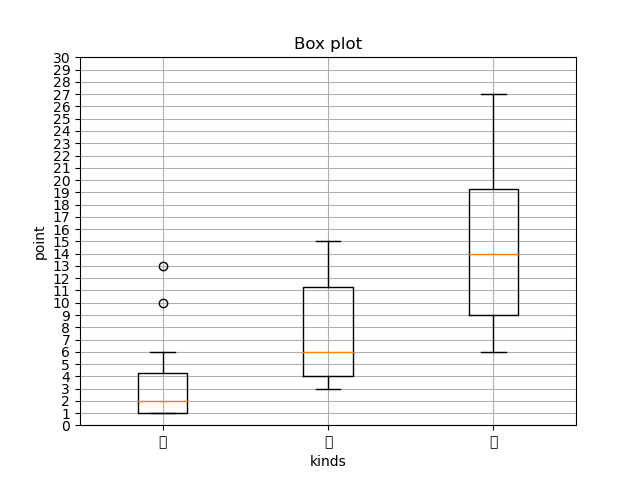
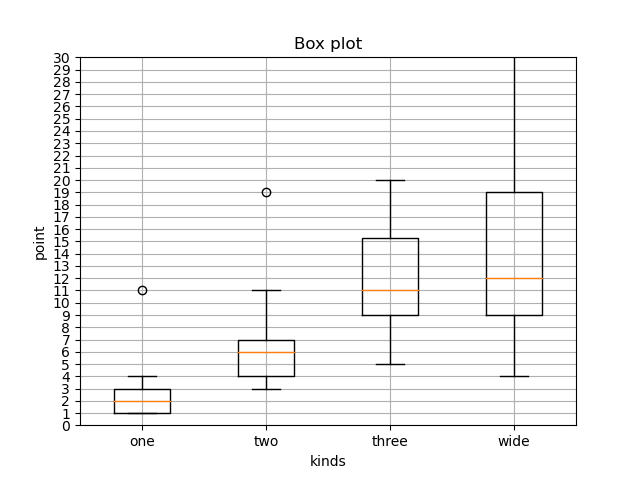
add demo wide

diff --git a/AkioAI/System_demo/class_demo.py b/AkioAI/System_demo/class_demo.py
@@ -208,6 +208,7 @@ class Race:
         self.popData1 = []
         self.popData2 = []
         self.popData3 = []
+        self.popData4 = []
         
         
     #トピックのurlを返す
@@ -312,21 +313,34 @@ class Race:
         popSum1 = 0
         popSum2 = 0
         popSum3 = 0
+        popSum4 = 0
+        popSum5 = 0
+        popSum6 = 0
+        
         data = pd.read_html(url,header=0)[0]
         for x,y in zip(data['着順'],data['人気']):
             
             try:
                 if(int(x) <= 1):
                     popSum1 = popSum1 + int(y)
+                    popSum4 = popSum4 + int(y)
+                    popSum5 = popSum5 + int(y)
 
                 if(int(x) <= 2):
                     popSum2 = popSum2 + int(y)
+                    popSum4 = popSum4 + int(y)
+                    popSum6 = popSum6 + int(y)
 
                 if(int(x) <= 3):
                     popSum3 = popSum3 + int(y)
+                    popSum5 = popSum5 + int(y)
+                    popSum6 = popSum6 + int(y)
             except:
                 continue
                 
         self.popData1.append(popSum1)
         self.popData2.append(popSum2)
         self.popData3.append(popSum3)
+        self.popData4.append(popSum4)
+        self.popData4.append(popSum5)
+        self.popData4.append(popSum6)

diff --git a/AkioAI/System_demo/demo.py b/AkioAI/System_demo/demo.py
@@ -36,9 +36,6 @@ hourse_num = int(input())
 race = Race(url_topic)
 race.getURLTopic()
 
-
-# In[72]:
-
 #入力された年分だけにする
 for exp in range(0,cntTopic,1):
     race.createBuyRank(race.get_topic()[exp])
@@ -48,8 +45,6 @@ demo = Demo(name,log_ground,log_meter)
 for i in range(1,hourse_num+1,1):
     demo.createDemo(i)
 demo.createExpect(race)
-
-# In[83]:
 
 
 with pd.ExcelWriter("../race_demo/"+ name + log_ground + log_meter +".xlsx") as writer:
@@ -64,13 +59,13 @@ for i in range(0,20,1):
     race.getPopSum(urls[i])
     
 # 点数のタプル
-points = (race.popData1,race.popData2,race.popData3)
+points = (race.popData1,race.popData2,race.popData3,race.popData4)
 
 # 箱ひげ図
 fig, ax = plt.subplots()
 
 bp = ax.boxplot(points)
-ax.set_xticklabels(['単', '連','複'])
+ax.set_xticklabels(['one', 'two','three','wide'])
 
 plt.title('Box plot')
 plt.xlabel('kinds')
